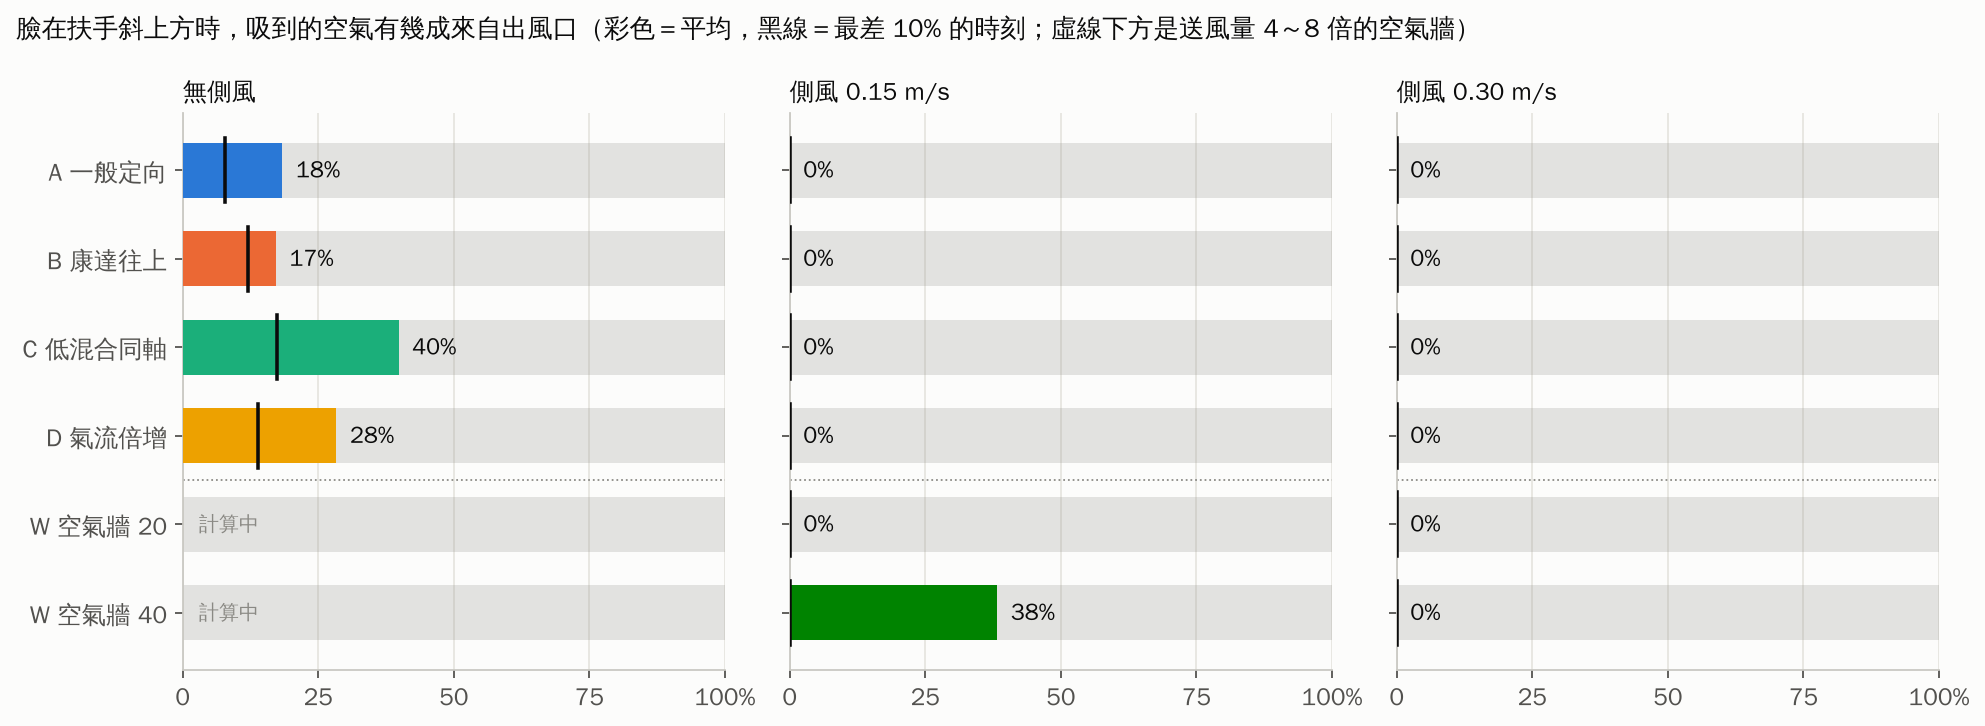
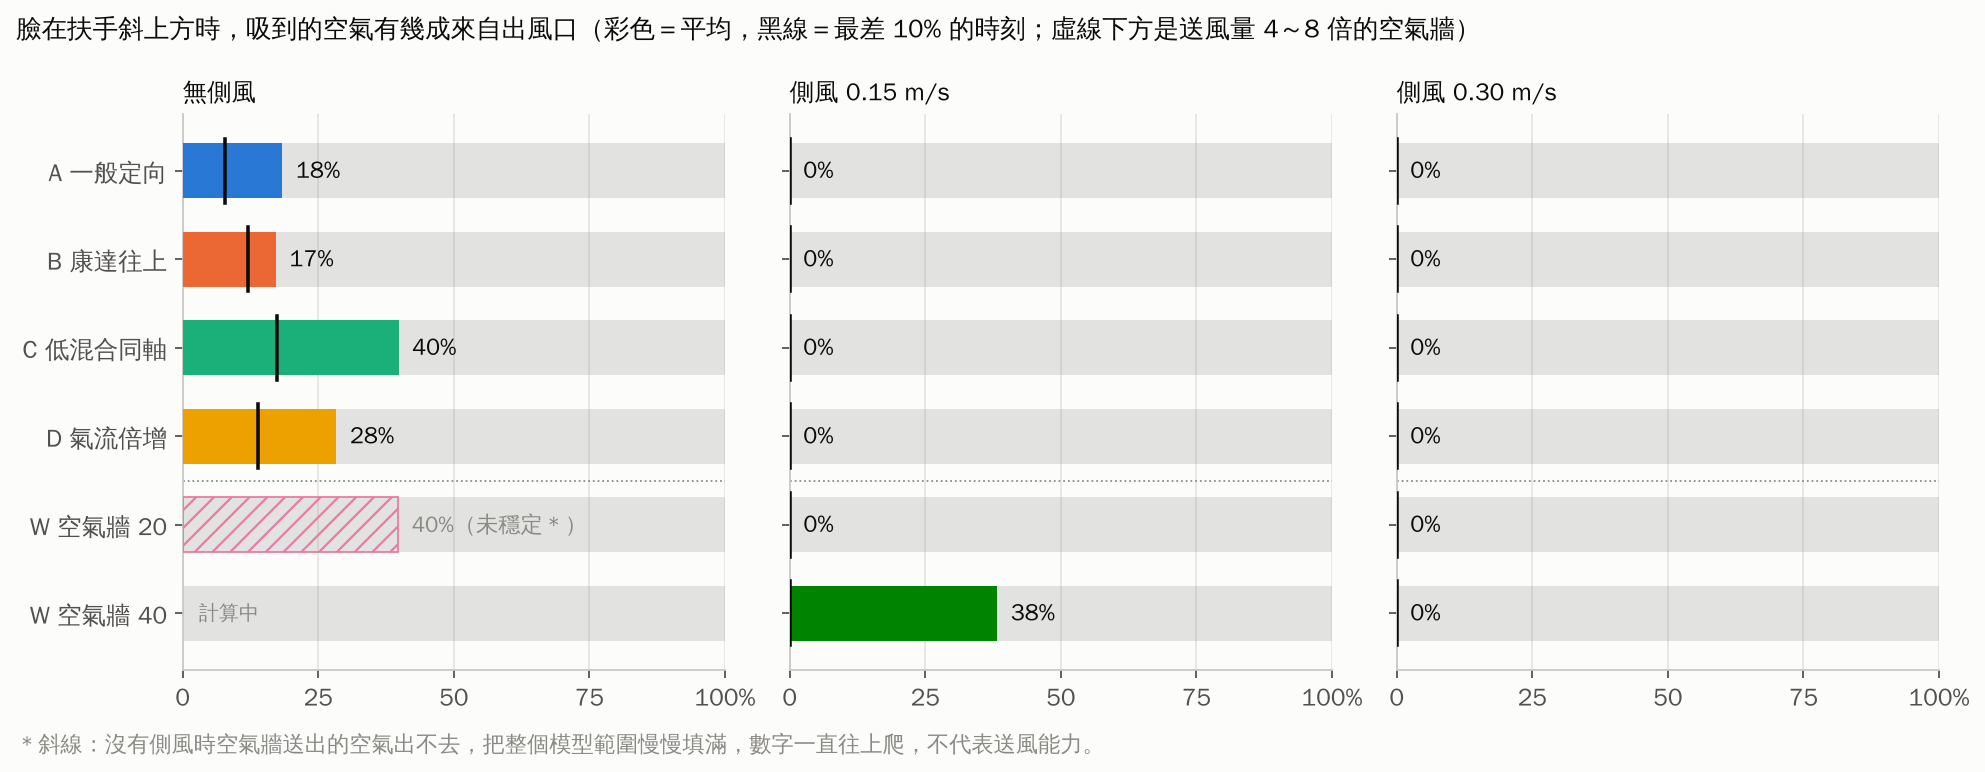
Face-above: 17/18 results; flag no-wind air-wall cases that fill the model domain
Claude-Session: https://claude.ai/code/session_01CLMVR9XzZXdsSKCMSLUbBG

diff --git a/stairwell-airflow-sim/report/index.html b/stairwell-airflow-sim/report/index.html
@@ -173,7 +173,7 @@ footer { margin-top: 48px; padding-top: 20px; border-top: 1px solid var(--line);
   <h1>扶手送風模擬報告</h1>
   <p class="question">一根貫穿整棟樓的扶手，平時能不能流通、淨化空氣？火災時能幫逃生者做到什麼？用電腦模擬一項一項檢查。</p>
   <div class="meta"><span>日期 <b>2026-10-19</b></span><span>專案 <b>長庚大學工業設計學系 林煜宸</b></span><span>模擬與撰寫 <b>Claude（AI）</b></span></div>
-  <div class="progress" role="status"><p>臉在斜上方的出風口重算：已完成 16/18 組，整體約 98%，預計台灣時間 <b>23:53</b> 前後完成</p><div class="bar" aria-hidden="true"><span style="width:98.0%"></span></div><div class="chips"><span class="chip chip-done"><b>B 康達往上</b>・無側風　完成</span><span class="chip chip-done"><b>B 康達往上</b>・側風 0.15　完成</span><span class="chip chip-done"><b>B 康達往上</b>・側風 0.30　完成</span><span class="chip chip-done"><b>A 一般</b>・側風 0.30　完成</span><span class="chip chip-done"><b>C 低混合</b>・側風 0.30　完成</span><span class="chip chip-done"><b>D 倍增</b>・側風 0.30　完成</span><span class="chip chip-done"><b>A 一般</b>・無側風　完成</span><span class="chip chip-done"><b>A 一般</b>・側風 0.15　完成</span><span class="chip chip-done"><b>D 倍增</b>・無側風　完成</span><span class="chip chip-done"><b>D 倍增</b>・側風 0.15　完成</span><span class="chip chip-done"><b>C 低混合</b>・側風 0.15　完成</span><span class="chip chip-done"><b>C 低混合</b>・無側風　完成</span><span class="chip chip-done"><b>W 空氣牆 40</b>・側風 0.15　完成</span><span class="chip chip-done"><b>W 空氣牆 20</b>・側風 0.15　完成</span><span class="chip chip-done"><b>W 空氣牆 40</b>・側風 0.30　完成</span><span class="chip chip-done"><b>W 空氣牆 20</b>・側風 0.30　完成</span><span class="chip chip-run"><b>W 空氣牆 40</b>・無側風　82%</span><span class="chip chip-run"><b>W 空氣牆 20</b>・無側風　90%</span></div><p class="muted small">進度在每次更新報告時重新計算（最後更新：台灣時間 10/19 23:47）。</p></div>
+  <div class="progress" role="status"><p>臉在斜上方的出風口重算：已完成 17/18 組，整體約 99%，預計台灣時間 <b>23:53</b> 前後完成</p><div class="bar" aria-hidden="true"><span style="width:99.3%"></span></div><div class="chips"><span class="chip chip-done"><b>B 康達往上</b>・無側風　完成</span><span class="chip chip-done"><b>B 康達往上</b>・側風 0.15　完成</span><span class="chip chip-done"><b>B 康達往上</b>・側風 0.30　完成</span><span class="chip chip-done"><b>A 一般</b>・側風 0.30　完成</span><span class="chip chip-done"><b>C 低混合</b>・側風 0.30　完成</span><span class="chip chip-done"><b>D 倍增</b>・側風 0.30　完成</span><span class="chip chip-done"><b>A 一般</b>・無側風　完成</span><span class="chip chip-done"><b>A 一般</b>・側風 0.15　完成</span><span class="chip chip-done"><b>D 倍增</b>・無側風　完成</span><span class="chip chip-done"><b>D 倍增</b>・側風 0.15　完成</span><span class="chip chip-done"><b>C 低混合</b>・側風 0.15　完成</span><span class="chip chip-done"><b>C 低混合</b>・無側風　完成</span><span class="chip chip-done"><b>W 空氣牆 40</b>・側風 0.15　完成</span><span class="chip chip-done"><b>W 空氣牆 20</b>・側風 0.15　完成</span><span class="chip chip-done"><b>W 空氣牆 40</b>・側風 0.30　完成</span><span class="chip chip-done"><b>W 空氣牆 20</b>・側風 0.30　完成</span><span class="chip chip-run"><b>W 空氣牆 40</b>・無側風　92%</span><span class="chip chip-done"><b>W 空氣牆 20</b>・無側風　完成</span></div><p class="muted small">進度在每次更新報告時重新計算（最後更新：台灣時間 10/19 23:50）。</p></div>
 </header>
 <nav class="toc" aria-label="章節">
   <a href="#summary">一頁看懂</a><a href="#method">怎麼測的</a><a href="#daily">平時：新風帶</a><a href="#fire">火災：守護路線</a>
@@ -451,16 +451,16 @@ footer { margin-top: 48px; padding-top: 20px; border-top: 1px solid var(--line);
 
 <section id="nozzle">
   <h2><span class="no">04</span>四種出風口比一比（臉在扶手斜上方）</h2>
-  <p class="oneliner">臉在扶手斜上方時（已完成 16/18 組），目前口鼻乾淨空氣最高的是 C 低混合同軸（無側風）：40%。</p>
+  <p class="oneliner">臉在扶手斜上方時（已完成 17/18 組），目前口鼻乾淨空氣最高的是 C 低混合同軸（無側風）：40%。</p>
   <figure class="fig render"><img class="img-any" src="assets/render_nozzles.webp" alt="四種扶手側面出風口形式比較" loading="lazy"><figcaption>四種出風口的造型構想（設計渲染圖）。圖中文字是設計構想，實際結果以下方模擬為準。</figcaption></figure>
   <figure class="fig"><img class="img-light" src="assets/s2f_saf_bars.png" alt="臉在斜上方時四種出風口的乾淨空氣比例" loading="lazy"><img class="img-dark" src="assets/s2f_saf_bars_dark.png" alt="臉在斜上方時四種出風口的乾淨空氣比例" loading="lazy"><figcaption>每條橫條代表 100% 的吸入空氣，彩色部分是來自出風口的乾淨空氣。黑色短線是最差 10% 的時刻。</figcaption></figure>
   <div class="points prose">
 <p><b>為什麼重算：</b>人扶著內側扶手下樓時，臉在扶手的<b>斜上方</b>，不是正前方。這組把口鼻放在出風口往樓梯側 28 cm、往上 35 cm（距離約 45 cm、仰角約 51°）；A、C、D 出風口改成朝向口鼻，B 改用藏在底面、往上轉的康達出風口。每公尺送風量都是 5 L/s，網格 1.5 mm。<span class="tag tag-sim">模擬結果</span></p>
-<div class="table-wrap"><table><thead><tr><th scope="col">出風口（數字＝口鼻吸到的乾淨空氣比例）</th><th scope="col">無側風</th><th scope="col">側風 0.15</th><th scope="col">側風 0.30</th></tr></thead><tbody><tr><th scope="row">A 一般定向</th><td class="num">18%</td><td class="num">0%</td><td class="num">0%</td></tr><tr><th scope="row">B 康達往上</th><td class="num">17%</td><td class="num">0%</td><td class="num">0%</td></tr><tr><th scope="row">C 低混合同軸</th><td class="num">40%</td><td class="num">0%</td><td class="num">0%</td></tr><tr><th scope="row">D 氣流倍增</th><td class="num">28%</td><td class="num">0%</td><td class="num">0%</td></tr><tr><th scope="row">W 空氣牆 20 L/s/m</th><td class="num">計算中</td><td class="num">0%</td><td class="num">0%</td></tr><tr><th scope="row">W 空氣牆 40 L/s/m</th><td class="num">計算中</td><td class="num">38%</td><td class="num">0%</td></tr></tbody></table></div>
+<div class="table-wrap"><table><thead><tr><th scope="col">出風口（數字＝口鼻吸到的乾淨空氣比例）</th><th scope="col">無側風</th><th scope="col">側風 0.15</th><th scope="col">側風 0.30</th></tr></thead><tbody><tr><th scope="row">A 一般定向</th><td class="num">18%</td><td class="num">0%</td><td class="num">0%</td></tr><tr><th scope="row">B 康達往上</th><td class="num">17%</td><td class="num">0%</td><td class="num">0%</td></tr><tr><th scope="row">C 低混合同軸</th><td class="num">40%</td><td class="num">0%</td><td class="num">0%</td></tr><tr><th scope="row">D 氣流倍增</th><td class="num">28%</td><td class="num">0%</td><td class="num">0%</td></tr><tr><th scope="row">W 空氣牆 20 L/s/m</th><td class="num">40%＊</td><td class="num">0%</td><td class="num">0%</td></tr><tr><th scope="row">W 空氣牆 40 L/s/m</th><td class="num">計算中</td><td class="num">38%</td><td class="num">0%</td></tr></tbody></table></div><p class="muted">＊未穩定：沒有側風時，空氣牆送出的大量空氣在模型裡出不去，把整個 68 × 82 cm 的範圍慢慢填滿（整個範圍平均已達 45%），口鼻的數字一路往上爬，反映的是「範圍被填滿」而不是「送得到臉」，所以不拿來比較。真實樓梯間空間大得多，也幾乎都有上升氣流。</p>
 <p><b>目前看到的現象（8 組有側風的結果）：</b>有側風時，出風口吹出的乾淨空氣一離開扶手，就被由下往上的氣流帶著<b>貼著扶手正上方往上走</b>，到不了往樓梯側 28 cm 外的臉，口鼻都是 0%。B 康達往上確實有沿圓角轉向上（下面的圖看得到深藍色貼著導風腔轉彎），但轉上去之後一樣直直往上，沒有往臉的方向偏。<span class="tag tag-sim">模擬結果</span></p>
 <p><b>加算空氣牆：</b>先算完的幾組顯示，每公尺 5 L/s 的出風口在有側風時送不到斜上方的臉。所以把第 05 章表現最好的空氣牆（寬 80 mm、每公尺 20 或 40 L/s、水平往樓梯側吹）也放進同一個「臉在斜上方＋有頭」的測試，共 6 組，表格最後兩列。<span class="tag tag-sim">模擬結果</span></p>
 <p class="muted"><b>無側風要算久一點：</b>沒有側風時氣流很慢，乾淨空氣要好幾秒才飄到臉旁。先算的 10 秒版本裡，B、C、D 的口鼻數值還在一路往上爬（B 從 0% 爬到 12%、C 從 15% 爬到 46%、D 從 0% 爬到 36%），代表還沒穩定，所以無側風的 B、C、D 和空氣牆延長到 24 秒重算，取後 16 秒平均。A 的 10 秒版本前後半段差不多（19%／18%），已經穩定。</p>
-<p class="muted">已完成 16/18 組，其餘計算中；每完成一批就會更新。</p></div>
+<p class="muted">已完成 17/18 組，其餘計算中；每完成一批就會更新。</p></div>
   <figure class="fig"><img class="img-light" src="assets/s2f_reach.png" alt="在臉的高度，乾淨空氣層往樓梯側延伸多遠" loading="lazy"><img class="img-dark" src="assets/s2f_reach_dark.png" alt="在臉的高度，乾淨空氣層往樓梯側延伸多遠" loading="lazy"><figcaption>怎麼量：取口鼻上下各 3 cm 的水平帶，算出每個位置的平均乾淨空氣比例，看 ≥ 25%（淺色）和 ≥ 50%（深色）的範圍從出風口出口往樓梯側最遠到幾公分。紅虛線是這次假設的臉（28 cm）；長條超過紅線，臉才吸得到。</figcaption></figure>
   <figure class="fig"><img class="img-light" src="assets/s2f_vc00_fields.png" alt="臉在斜上方、無側風" loading="lazy"><img class="img-dark" src="assets/s2f_vc00_fields_dark.png" alt="臉在斜上方、無側風" loading="lazy"><figcaption>無側風：紅圈是口鼻位置，顏色越深代表出風口的空氣越多。</figcaption></figure>
   <figure class="fig"><img class="img-light" src="assets/s2f_vc15_fields.png" alt="臉在斜上方、側風 0.15 m/s" loading="lazy"><img class="img-dark" src="assets/s2f_vc15_fields_dark.png" alt="臉在斜上方、側風 0.15 m/s" loading="lazy"><figcaption>側風 0.15 m/s（由下往上）。</figcaption></figure>

diff --git a/stairwell-airflow-sim/report/findings.py b/stairwell-airflow-sim/report/findings.py
@@ -274,10 +274,18 @@ def build_findings(ctx):
     n_done = len(f2)
     rows = []
     for k in FL:
-        cells = "".join(f'<td class="num">{pct(f2[f"{k}_{c}"]["mean"]) if f"{k}_{c}" in f2 else "計算中"}</td>' for c, _ in CL)
+        def cell(n):
+            if n not in f2:
+                return "計算中"
+            return pct(f2[n]["mean"]) + ("＊" if f2[n].get("filling") else "")
+        cells = "".join(f'<td class="num">{cell(f"{k}_{c}")}</td>' for c, _ in CL)
         rows.append(f'<tr><th scope="row">{FL[k]}</th>{cells}</tr>')
     face_table = ('<div class="table-wrap"><table><thead><tr><th scope="col">出風口（數字＝口鼻吸到的乾淨空氣比例）</th>'
                   + "".join(f'<th scope="col">{l}</th>' for _, l in CL) + '</tr></thead><tbody>' + "".join(rows) + '</tbody></table></div>')
+    if any(v.get("filling") for v in f2.values()):
+        face_table += ('<p class="muted">＊未穩定：沒有側風時，空氣牆送出的大量空氣在模型裡出不去，把整個 68 × 82 cm 的範圍慢慢填滿'
+                       f'（整個範圍平均已達 {max(v["fill"] for v in f2.values() if v.get("filling"))*100:.0f}%），口鼻的數字一路往上爬，'
+                       '反映的是「範圍被填滿」而不是「送得到臉」，所以不拿來比較。真實樓梯間空間大得多，也幾乎都有上升氣流。</p>')
     windy = [v["mean"] for k, v in f2.items() if not k.endswith("vc00") and not k.startswith("W")]
     all_done = n_done == n_total
     if n_done == 0:
@@ -286,7 +294,7 @@ def build_findings(ctx):
         face_one = (f"臉在扶手斜上方時，沒有側風最好的是低混合出風口（{pct(fv('C_vc00'))}）；"
                     f"一有側風，每公尺 5 L/s 的出風口全部是 0%，只有每公尺 40 L/s 的空氣牆送得到臉（側風 0.15：{pct(fv('W40_vc15'))}）。")
     else:
-        best = max(f2, key=lambda n: f2[n]["mean"])
+        best = max((n for n in f2 if not f2[n].get("filling")), key=lambda n: f2[n]["mean"])
         bk, bc = best.split("_")
         face_one = (f"臉在扶手斜上方時（已完成 {n_done}/{n_total} 組），目前口鼻乾淨空氣最高的是 "
                     f"{FL[bk]}（{dict(CL)[bc]}）：{pct(f2[best]['mean'])}。")
@@ -303,7 +311,8 @@ def build_findings(ctx):
 <li><b>有側風：</b>A、B、C、D 在 0.15 和 0.30 m/s 的側風下<b>全部是 0%</b>。乾淨空氣並沒有消失，而是一離開出風口就被由下往上的氣流帶著<b>貼著扶手正上方往上走</b>（看下面的動畫），到不了往樓梯側 28 cm 外的臉。{tag("sim")}</li>
 <li><b>康達往上：</b>有側風時確實沿著圓角轉向上、貼著導風腔往上走（往下轉時做不到），但轉上去之後一樣沿著扶手正上方往上，沒有往臉的方向偏。沒有側風時，以每公尺 5 L/s 的風速<b>不會自己轉上去</b>，而是沿著導風腔底面水平往外吹；口鼻的 {pct(fv('B_vc00'))} 主要是慢慢累積的背景。康達轉彎需要上升氣流幫忙，或更細的縫、更快的風。{tag("sim")}</li>
 <li><b>空氣牆每公尺 40 L/s：</b>側風 0.15 m/s 時口鼻 {pct(w15['mean'])}，是有側風時唯一送得到臉的做法。但乾淨空氣是一陣一陣送到的：前半段 {pct(w15['first_half'])}、後半段 {pct(w15['second_half'])}，最差的 10% 時刻是 {pct(w15['p10'])}。側風加到 0.30 時，乾淨空氣層在臉的高度只延伸到出風口外 {fv('W40_vc30', 'reach25') or 0:.0f} cm，臉在 28 cm，所以是 {pct(fv('W40_vc30'))}。{tag("sim")}</li>
-<li><b>空氣牆每公尺 20 L/s：</b>側風下都送不到臉（{pct(fv('W20_vc15'))}／{pct(fv('W20_vc30'))}）；乾淨空氣層只延伸 {fv('W20_vc15', 'reach25') or 0:.0f} cm。沒有側風時 {pct(fv('W20_vc00'))}。{tag("sim")}</li>
+<li><b>空氣牆每公尺 20 L/s：</b>側風下都送不到臉（{pct(fv('W20_vc15'))}／{pct(fv('W20_vc30'))}）；乾淨空氣層只延伸 {fv('W20_vc15', 'reach25') or 0:.0f} cm。{tag("sim")}</li>
+<li><b>空氣牆沒有側風時：</b>數字不拿來比較（表中＊）。送出的風量是 A–D 的 4–8 倍，2D 模型裡又沒有氣流把它帶走，整個範圍會被慢慢填滿。{tag("sim")}</li>
 <li><b>對設計的意思：</b>在臉的位置，乾淨空氣層「延伸多遠」比「出風口朝哪裡」更重要。要讓斜上方的臉吸得到，需要寬的空氣牆、每公尺約 40 L/s，<b>而且臉要在出風口外約 30 cm 內</b>。可以把出風口往樓梯側外推（平台轉角的外凸出風罩），或讓扶手的握持位置更靠近出風口。{tag("inf")}</li>
 </ul>
 {wall_note}

diff --git a/stairwell-airflow-sim/analysis/s2f_post.py b/stairwell-airflow-sim/analysis/s2f_post.py
@@ -37,10 +37,13 @@ def load(name):
     half = len(pc) // 2
     t, c = np.load(os.path.join(d, "type.npy")), rd("mean_c.f32")
     reach = clean_reach(m, t, c)
+    # 整個模型範圍的平均濃度：無側風、大風量時，送出的空氣出不去，會把整個範圍慢慢「填滿」，口鼻的數字就不代表送風能力
+    fill = float(c[t == 0].mean())
     return dict(meta=m, t=t, c=c,
                 ux=rd("mean_ux.f32") * m["vel_scale"], uy=rd("mean_uy.f32") * m["vel_scale"],
                 res=dict(mean=float(pc.mean()), p10=float(np.percentile(pc, 10)),
-                         first_half=float(pc[:half].mean()), second_half=float(pc[half:].mean()), **reach))
+                         first_half=float(pc[:half].mean()), second_half=float(pc[half:].mean()),
+                         fill=fill, filling=m["vc_ms"] == 0 and fill > 0.25, **reach))
 
 
 def clean_reach(m, t, c):
@@ -156,6 +159,10 @@ def bars(allres):
                 ax.text(3, yk, "計算中", va="center", fontsize=9, color=MUTED)
                 continue
             v = s["mean"] * 100
+            if s.get("filling"):
+                ax.barh(yk, v, height=0.62, color="none", edgecolor=COLOR[nz], hatch="///", lw=0.8, zorder=3)
+                ax.text(min(v, 100) + 2.5, yk, f"{v:.0f}%（未穩定＊）", va="center", fontsize=10, color=MUTED, zorder=5)
+                continue
             ax.barh(yk, v, height=0.62, color=COLOR[nz], zorder=3)
             ax.plot([s["p10"] * 100] * 2, [yk - 0.36, yk + 0.36], color=TEXT1, lw=1.6, zorder=4)
             ax.text(min(v, 100) + 2.5, yk, f"{v:.0f}%", va="center", fontsize=10.5, color=TEXT1, zorder=5)
@@ -167,6 +174,9 @@ def bars(allres):
     axs[0].set_yticks(range(len(rows)), [LABEL[n].split("（")[0].replace(" L/s/m", "") for n in reversed(rows)])
     fig.suptitle("臉在扶手斜上方時，吸到的空氣有幾成來自出風口（彩色＝平均，黑線＝最差 10% 的時刻；虛線下方是送風量 4～8 倍的空氣牆）",
                  x=0.01, ha="left", fontsize=11.5)
+    if any(v.get("filling") for v in allres.values()):
+        fig.text(0.01, -0.02, "＊斜線：沒有側風時空氣牆送出的空氣出不去，把整個模型範圍慢慢填滿，數字一直往上爬，不代表送風能力。",
+                 ha="left", fontsize=10, color=MUTED)
     fig.tight_layout()
     save(fig, "s2f_saf_bars.png")
 
@@ -215,6 +225,9 @@ def reach_chart(allres):
             if s is None:
                 ax.text(1, yk, "計算中", va="center", fontsize=9, color=MUTED)
                 continue
+            if s.get("filling"):
+                ax.text(1, yk, "未穩定＊", va="center", fontsize=9, color=MUTED)
+                continue
             ax.barh(yk, s["reach25"], height=0.62, color=COLOR[nz], alpha=0.45, zorder=3)
             ax.barh(yk, s["reach50"], height=0.62, color=COLOR[nz], zorder=4)
             ax.text(max(s["reach25"], 0) + 1.2, yk, f"{s['reach25']:.0f} cm", va="center", fontsize=9.5, color=TEXT1, zorder=5)
@@ -228,6 +241,8 @@ def reach_chart(allres):
     axs[0].set_yticks(range(len(rows)), [LABEL[n].split("（")[0].replace(" L/s/m", "") for n in reversed(rows)])
     fig.suptitle("在臉的高度，乾淨空氣層從出風口往樓梯側延伸多遠（淺色＝乾淨 ≥ 25%，深色＝≥ 50%；紅虛線＝這次假設的臉）",
                  x=0.01, ha="left", fontsize=11.5)
+    if any(v.get("filling") for v in allres.values()):
+        fig.text(0.01, -0.02, "＊沒有側風時空氣牆送出的空氣把整個模型範圍填滿，看不出乾淨空氣層的邊界。", ha="left", fontsize=10, color=MUTED)
     fig.tight_layout()
     save(fig, "s2f_reach.png")
 
@@ -275,7 +290,7 @@ def main():
             loaded[f"{nz}_{c}"] = r
             allres[f"{nz}_{c}"] = r["res"]
             s = r["res"]
-            print(f"{nz}_{c}: 口鼻 {s['mean']*100:5.1f}%  最差10% {s['p10']*100:5.1f}%  前/後半 {s['first_half']*100:.1f}/{s['second_half']*100:.1f}")
+            print(f"{nz}_{c}: 填滿 {s['fill']*100:4.1f}%  口鼻 {s['mean']*100:5.1f}%  最差10% {s['p10']*100:5.1f}%  前/後半 {s['first_half']*100:.1f}/{s['second_half']*100:.1f}")
     for c, lbl in CONDS:
         field_panel(loaded, c, lbl)
     wall_panel(loaded)
